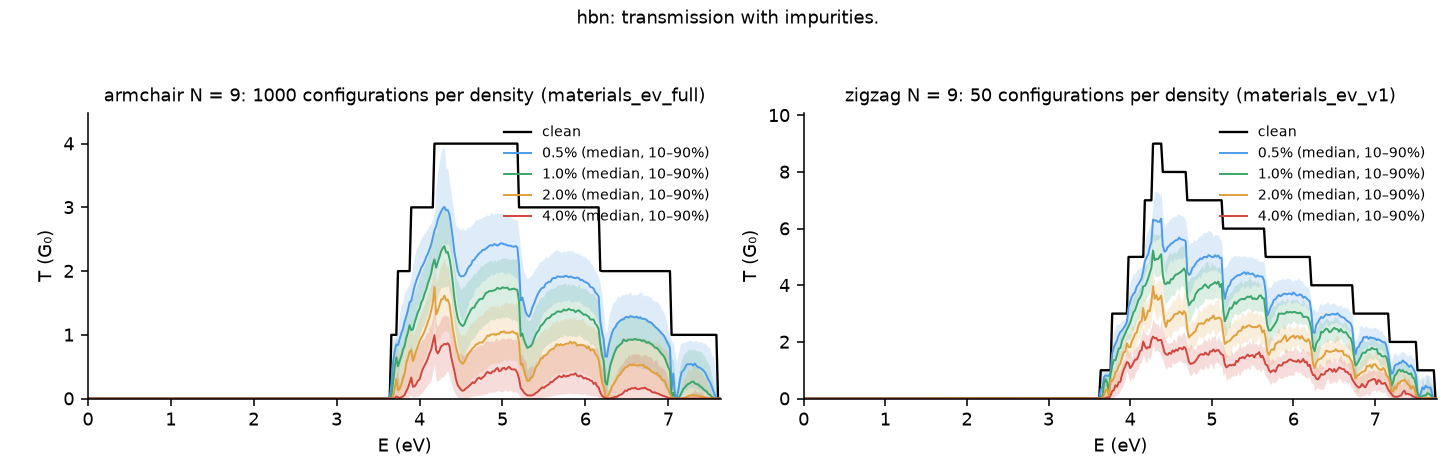
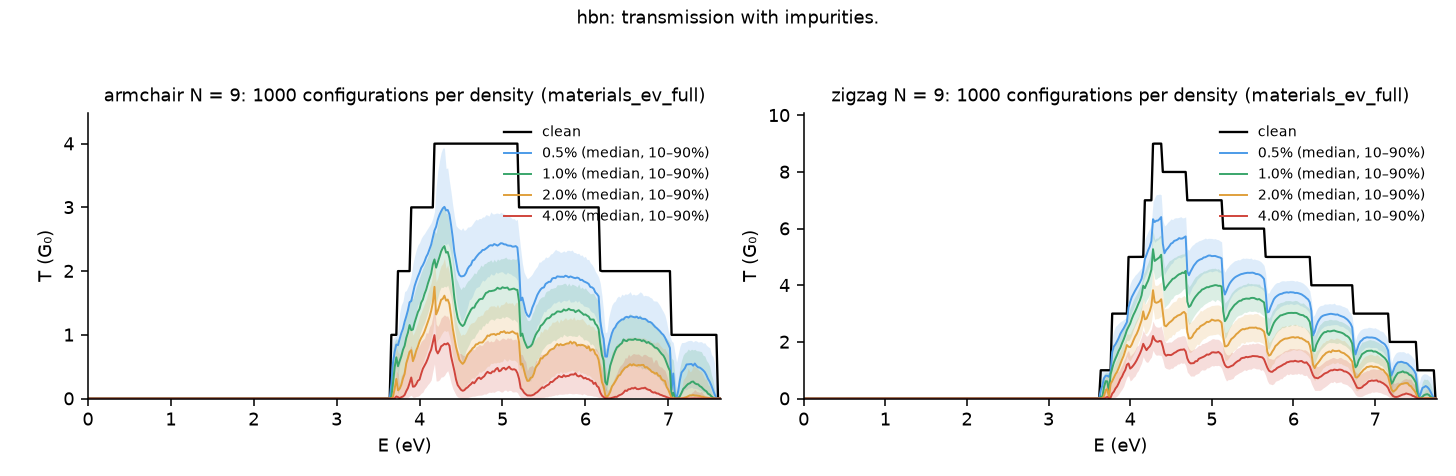
docs(materials): disorder figures from the full 1,000-configuration run (FULL-4)

Changed region(s): [[0.7418, 0.4706, 0.989, 0.8529], [0.5563, 0.1765, 0.9581, 0.2353]]

diff --git a/docs/materials/hbn/README.md b/docs/materials/hbn/README.md
@@ -20,7 +20,7 @@ Left: bands of N = 9 (E ≥ 0, so the conduction band only). Right: clean transm
 
 ![Transmission with impurities](figures/disorder.png)
 
-N = 9 at 0.5–4% impurities: the median and 10–90% band, against the clean spectrum. Panels read from the full run (1,000 configurations) where that ribbon is finished, otherwise from the smoke store (50). Re-run `make_figures.py` after FULL-4 for 1,000 everywhere.
+N = 9 at 0.5–4% impurities: the median and 10–90% band, against the clean spectrum. 1,000 configurations per density, from the full run (`materials_ev_full`).
 
 The figures are made by `docs/materials/make_figures.py` from the code and the stores.
 

diff --git a/docs/materials/triangular/README.md b/docs/materials/triangular/README.md
@@ -20,7 +20,7 @@ Left: bands of N = 9 (E ≥ 0). Right: clean transmission for N = 7, 9, 14 and 2
 
 ![Transmission with impurities](figures/disorder.png)
 
-N = 9 at 0.5–4% impurities: the median and 10–90% band, against the clean spectrum. Smoke store (50 configurations) until FULL-4 finishes. For zigzag N9, 0.5% rounds to 4 impurities of 900, i.e. 0.44%.
+N = 9 at 0.5–4% impurities: the median and 10–90% band, against the clean spectrum. 1,000 configurations per density (`materials_ev_full`). For zigzag N9, 0.5% rounds to 4 impurities of 900, i.e. 0.44%.
 
 The figures are made by `docs/materials/make_figures.py` from the code and the stores.
 

diff --git a/docs/materials/mos2/README.md b/docs/materials/mos2/README.md
@@ -20,7 +20,7 @@ Left: bands of N = 9 (E ≥ 0; mid-gap at E = 0). Right: clean transmission for 
 
 ![Transmission with impurities](figures/disorder.png)
 
-N = 9 at 0.5–4% impurities on whole Mo atoms (V = 0.2535 eV): the median and 10–90% band, against the clean spectrum. Smoke store (50 configurations) until FULL-4 finishes.
+N = 9 at 0.5–4% impurities on whole Mo atoms (V = 0.2535 eV): the median and 10–90% band, against the clean spectrum. 1,000 configurations per density (`materials_ev_full`).
 
 The figures are made by `docs/materials/make_figures.py` from the code and the stores.
 

diff --git a/docs/materials/phosphorene/README.md b/docs/materials/phosphorene/README.md
@@ -20,7 +20,7 @@ Left: bands of N = 9 (E ≥ 0; mid-gap at E = 0). Right: clean transmission for 
 
 ![Transmission with impurities](figures/disorder.png)
 
-N = 9 at 0.5–4% impurities: the median and 10–90% band, against the clean spectrum. The full run (1,000 configurations) is used where finished, otherwise the smoke store (50).
+N = 9 at 0.5–4% impurities: the median and 10–90% band, against the clean spectrum. 1,000 configurations per density (`materials_ev_full`).
 
 The figures are made by `docs/materials/make_figures.py` from the code and the stores.
 
